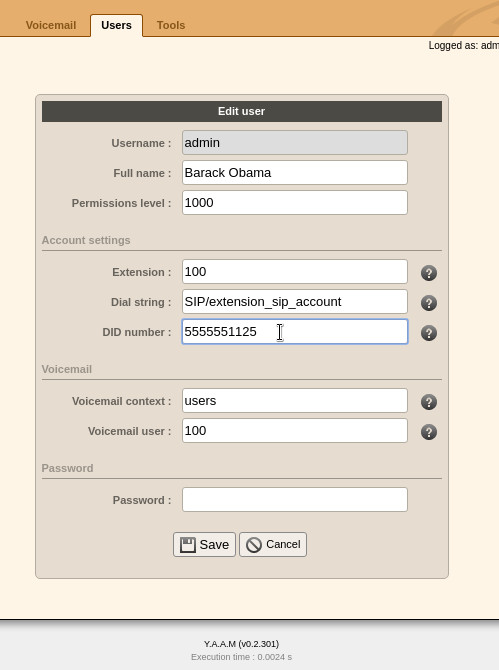
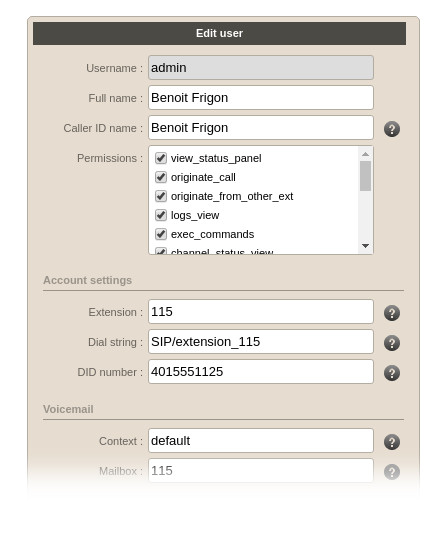
Updated screen shots

diff --git a/README.md b/README.md
@@ -3,13 +3,22 @@ Y.A.A.M
 
 (Yet Another Asterisk Manager)
 
-This is a web interface that i wrote to “manage” my Asterisk server. It is not meant at all to be an alternative to FreePbx and the like. It has very basic functionality : A call log viewer, voicemail manager, system log viewer and a few tools. You can’t add voicemail boxes, user extensions or modify the dialplan with this interface. It has a plugin system, so you can add or remove features you don’t need.
+This is a web interface for managing an Asterisk server. It is not meant at all to be an alternative to other GUI such as FreePBX. It is more like an assistant, for those who prefer to edit configuration files manually but needs a web interface for quick access to server logs, call logs, etc.
 
 ![Screenshot : Call-log](/screenshots/call_log_filters.jpg)
 
-TODO
-----
+Users are only allowed to view call logs, listen to voice message or edit phonebook records for their extension only. It is possible to give certain users permission to access to those functions for all users as well.
 
- - Add localization support to the template engine.  /template/fr/template.tpl  or /plugin/CDR/fr/template.tpl
- - Add first run setup wizard.
+![Screenshot : Edit users](/screenshots/edit_user.jpg)
 
+Y.A.A.M also has a plugin system, so you can add or remove features you don’t need.
+
+Available plugins
+-----------------
+
+ - Call log viewer
+ - Call treatment
+ - Voicemail (ODBC)
+ - Phone book
+ - Sys Admin (Log viewer, channel status, run CLI commands)
+ - Originate call

diff --git a/TODO.md b/TODO.md
@@ -1,0 +1,8 @@
+To do list
+----------
+
+ - Add multilingual support for templates
+ - First run setup wizard
+ - Configuration editor
+ - Permissions group
+
